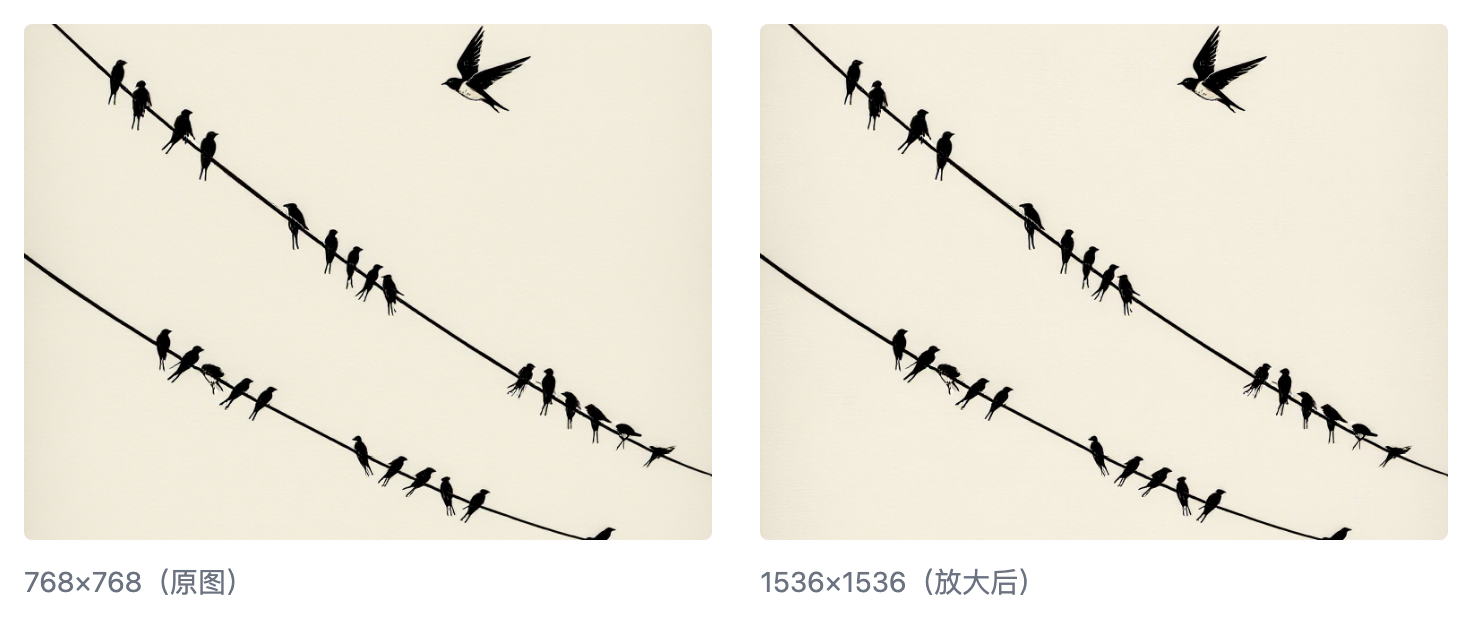
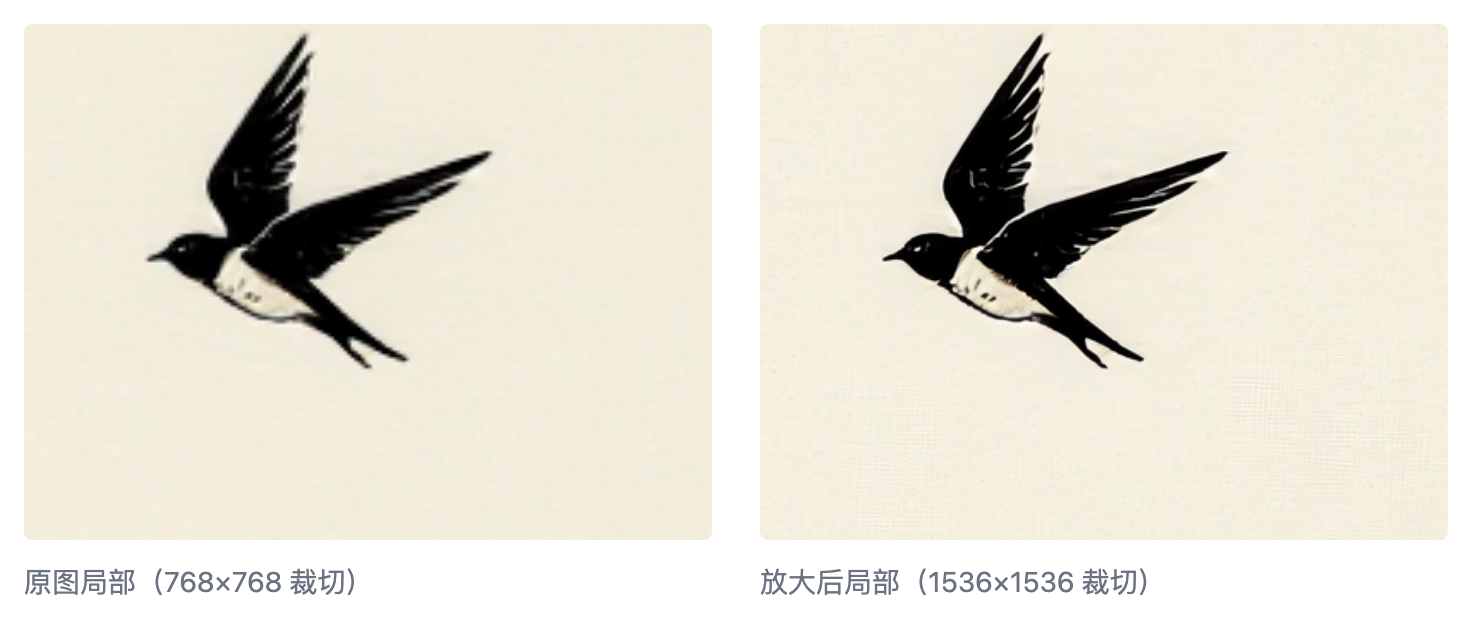
[draft] 尺寸对比图组：改为同区域局部特写对比，替换并排全图版本
并排展示两张 768x768/1536x1536 全图缩小到小尺寸后看不出放大带来的清晰度差异，改为裁切同一只燕子区域做局部特写（原图 200x200 拉伸展示 vs 放大后 1536x1536 裁切出的 400x400 原生分辨率），让放大前后的锐度对比在图组里能被肉眼看到。

diff --git a/articles/2026-09-24-enlarge-image-simple-way/assets/images/size-comparison-grid.source.html b/articles/2026-09-24-enlarge-image-simple-way/assets/images/size-comparison-grid.source.html
@@ -2,7 +2,7 @@
 <html lang="zh">
 <head>
 <meta charset="utf-8">
-<title>size comparison grid</title>
+<title>size comparison grid - closeup</title>
 <style>
   body{margin:0;font-family:-apple-system,BlinkMacSystemFont,"PingFang SC","Microsoft YaHei","Helvetica Neue",Arial,sans-serif;background:#ffffff;color:#171717;display:inline-block;}
 </style>
@@ -15,16 +15,16 @@
 
     <figure style="margin: 0; display: flex; flex-direction: column; gap: 10px;">
       <div style="width: 100%; aspect-ratio: 4/3; border-radius: 4px; overflow: hidden;">
-        <img src="file:///Users/husongtao/Projects/newsletters/articles/2026-09-24-enlarge-image-simple-way/original.png" style="width: 100%; height: 100%; object-fit: cover; object-position: center; display: block;">
+        <img src="file:///Users/husongtao/Projects/newsletters/articles/2026-09-24-enlarge-image-simple-way/assets/images/closeup-original.png" style="width: 100%; height: 100%; object-fit: cover; object-position: center; display: block;">
       </div>
-      <figcaption style="font-size: 14px; color: #6B7280; line-height: 1.6;">768×768（原图）</figcaption>
+      <figcaption style="font-size: 14px; color: #6B7280; line-height: 1.6;">原图局部（768×768 裁切）</figcaption>
     </figure>
 
     <figure style="margin: 0; display: flex; flex-direction: column; gap: 10px;">
       <div style="width: 100%; aspect-ratio: 4/3; border-radius: 4px; overflow: hidden;">
-        <img src="file:///Users/husongtao/Projects/newsletters/articles/2026-09-24-enlarge-image-simple-way/upscaled.png" style="width: 100%; height: 100%; object-fit: cover; object-position: center; display: block;">
+        <img src="file:///Users/husongtao/Projects/newsletters/articles/2026-09-24-enlarge-image-simple-way/assets/images/closeup-upscaled.png" style="width: 100%; height: 100%; object-fit: cover; object-position: center; display: block;">
       </div>
-      <figcaption style="font-size: 14px; color: #6B7280; line-height: 1.6;">1536×1536（放大后）</figcaption>
+      <figcaption style="font-size: 14px; color: #6B7280; line-height: 1.6;">放大后局部（1536×1536 裁切）</figcaption>
     </figure>
 
   </div>

diff --git a/articles/2026-09-24-enlarge-image-simple-way/draft.md b/articles/2026-09-24-enlarge-image-simple-way/draft.md
@@ -16,7 +16,7 @@
 
 一幅 1536x1536 的两倍图就出来了，速度很快。
 
-![「图组：原图与放大后的尺寸对比，768×768 与 1536×1536」](./assets/images/size-comparison-grid.png)
+![「图组：同一区域的局部特写对比，原图 768×768 裁切与放大后 1536×1536 裁切，可见放大后细节更清晰」](./assets/images/size-comparison-grid.png)
 
 剩下的是裁剪出需要的尺寸。
 
